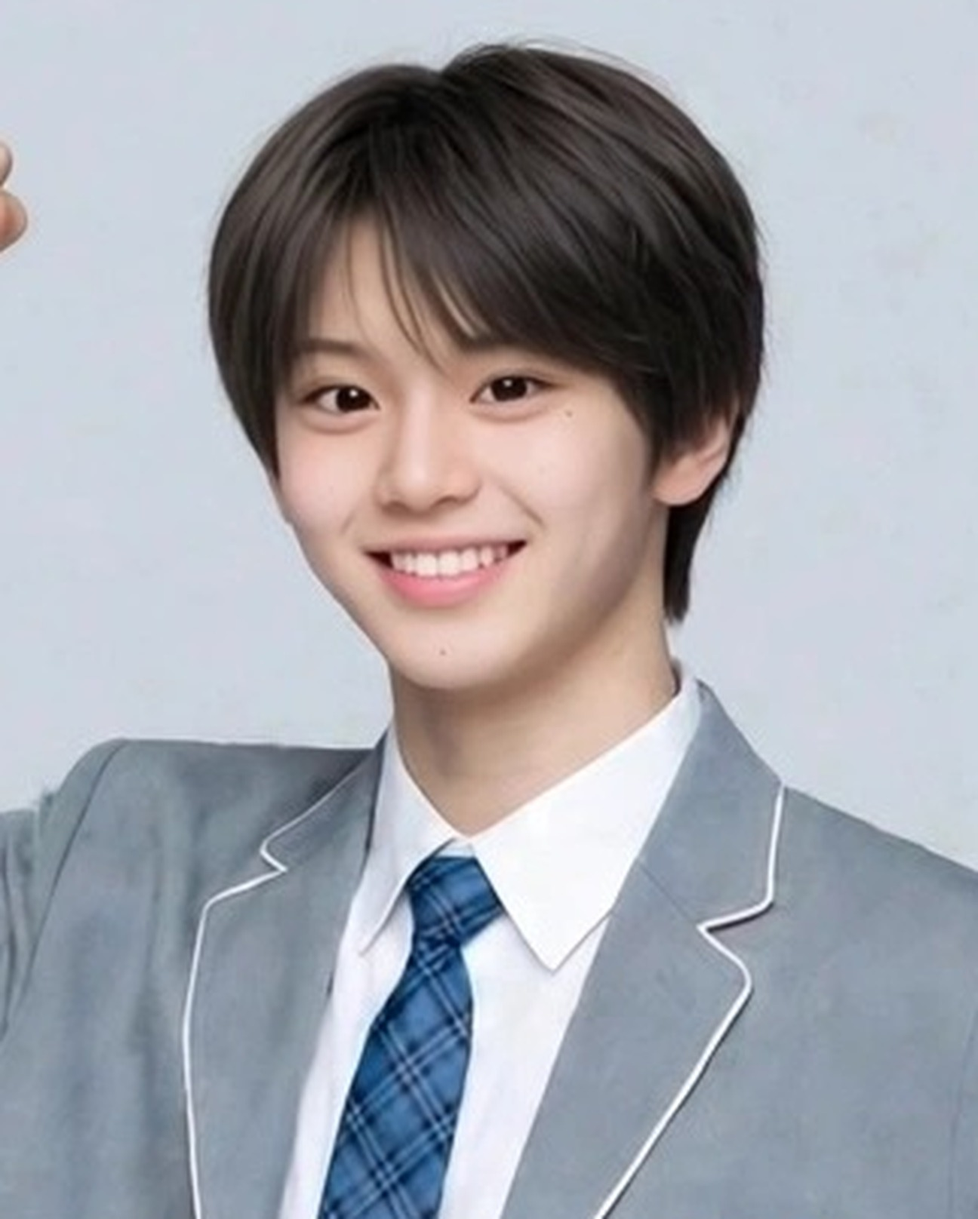
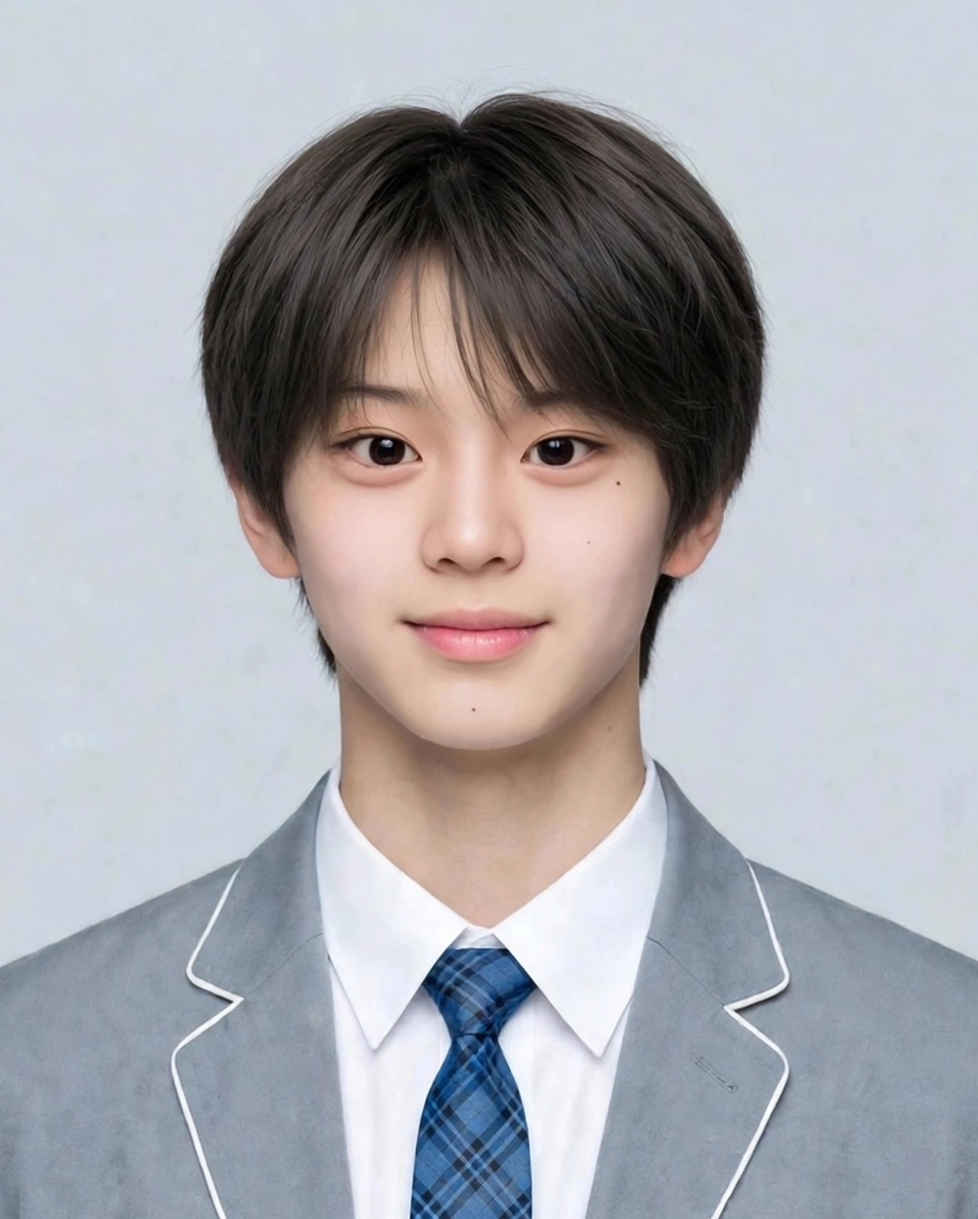
v164: 2019プロフィールを素立ちバストショットに戻す

diff --git a/index.html b/index.html
@@ -806,7 +806,7 @@ body{font-family:-apple-system,"Hiragino Kaku Gothic ProN","Noto Sans JP",sans-s
 <script>
 "use strict";
 const $=s=>document.querySelector(s);
-const VER="v163";
+const VER="v164";
 /* ============ state ============ */
 const DEF={idx:0,started:false,consented:false,soundOn:true,
  g:{iwakan:0,bare:0,todoita:0,uta:8,dance:4,ishi:50},
@@ -2560,7 +2560,7 @@ function renderSettings(tab){setTab=tab;document.querySelectorAll("#set-tabs but
  <div class="srow"><span>到達した結末</span><span class="sv">${S.trueEnd?"TRUE END ― 現在":S.normalEnd?"END ― 通常現在":S.loopBad?"BAD END ― ループ継続":S.bareEnd?"END ― 秘密バレIF":S.ridatsuEnd?"END ― 離脱した現在":"（まだ到達していません）"}</span></div>
  <div class="srow"><span>サウンド</span><span class="sv"><button id="snd-btn" style="background:${S.soundOn!==false?"#17172a":"#c6c6d4"};color:#fff;border:none;border-radius:999px;padding:6px 18px;font-size:12.5px;font-weight:700;cursor:pointer">${S.soundOn!==false?"ON":"OFF"}</button></span></div>
  <div class="srow"><span>フィクション</span><span class="sv">実在の記録をもとにした創作です</span></div>
- <div class="srow"><span>アップデート</span><span class="sv">v16 サウンドと画面遷移／v17 差分再演REPLAYとDiff時代別表示／v18 現在の小さな変化／v19 トークのスレッドとフリーチャット／v20・v23・v32 場面カットの追加／v21 日常回（食堂の夜・売店の夜）／v22 番組アプリの情報デザイン／v24 ホーム背景の時代連動と進行％／v25 タイトルのスライドショー／v26 彼の画面のカウンタ／v27 ロック画面の通知スタック／v28 写真の全画面ビューア／v30 章ごとの記録カード／v31 フィナーレ直前の彼の視点／v33 フリーチャットの時代別応答／v34 投票レシート／v35 ミッション進捗バー／v36 ゲージの危険域表示／v37 選んだ記録の判別表示／v38 台帳の時代別表示／v39 Keepsakeの時代バッジ／v41 章名つきロック画面／v42 トークの新着バッジ／v43 名簿の詳細パネル／v44 写真のスワイプ送り／v45 BGMの時代連動／v46 順位・差分の専用SE／v47 長押し早送り／v48 章セレクト／v50 REPLAY再演の追加／v52 日常回（コンビニの夜）／v53 タイトル通知のセーブ連動／v54 アプリアイコンのバッジ／v55 主人公の正式名「三浦渚央」と2019プロフィールの新フェイス差し替え／v56〜v59 プロフィール・場面カットの新フェイス再生成／v60 カード画角の統一（頭部55〜60%）と三浦渚央の順位表示／v61 名簿メモへの順位追記と凡例／v62 周B順位発表の彼の視点／v63 ストーリーバナーのサムネ時代連動／v64 タイトルに正式名／v65 ロック画面に順位通知／v66 情報タブに順位の記録／v67 順位行の文字色修正／v68 現在の小さな変化（順位の残響）／v69 写真メモに順位結果／v70 節目 ― 全アプリ走査／v71 フリーチャットの話題追加／v72 トークのチップ追加／v73・v74 順位タブの空状態整理／v75 順位変動のDiff記録／v76 節目 ― 全アプリ走査／v77 2021周A・初回ステージ後に彼の画面を追加／v78 2023周A・ファンカム章に彼の視点（インライン）を追加／v79 2019周A・順位発表式に彼の視点（インライン）を追加／v80 2023周A・VERY NICE本番前に彼の視点（インライン）を追加／v81 2023周A・寮の夜に彼の視点（インライン）を追加／v82 2019周A・届くはずのなかった手紙に彼の視点（インライン）を追加／v83 フリーチャットの話題拡充（2019専用プール＋新キーワード6種＋チップ追加）／v84 周Aの彼の記憶の線引きで全監査（2021・2023到着場面と彼の画面3件を連続した同僚の前提に書き換え）／v85 2019周A・練習室の夜に彼の視点（インライン）を追加／v86 2021周A・寮の一夜に彼の視点（インライン）を追加／v87 2023周A・コンビニの夜に彼の視点（インライン）を追加／v88 台帳・Keepsake・Diffの時代分類を修正（NXD期グループ新設、誤分類6件を是正）／v89 場面カット追加（2023順位発表の夜・face2基準で新規生成）／v90 場面カット追加（2021ファイナルの夜・face2基準で新規生成）／v91 節目 ― 全アプリ走査／v92 日常回「自販機の夜」（2023・周B）を追加／v93 2019周A・レベル分け評価に彼の視点（インライン）を追加／v94 写真アプリに時代別グルーピング（見出し＋枚数）を追加／v95 場面カット追加（NXD期・夜の練習室、face2基準で新規生成）／v96 フリーチャットの時代別プールを拡充（各時代＋2件）／v97 2019周B・発覚に彼の視点（インライン）を追加／v98 2021周B・再会に彼の視点（インライン）を追加／v99 2023周B・発覚に彼の視点（インライン）を追加／v100 節目 ― 全編通しプレイ検証／v101 効果音の配線追加（台帳・Keepsake・彼の視点）／v102 トークに彼のメッセージを3件追加／v103 タイトルのスライドショー拡充（8枚）とホーム背景のNXD期差し替え／v104 2023周B・再会に彼の視点（インライン）を追加／v105 2021周B・売店の夜に彼の視点（インライン）を追加／v106 NXD期・周B「移籍の決断」に彼の視点（インライン）を追加／v107 2023周B・共同作戦に彼の視点（インライン）を追加／v108 2019周B・共同作戦（ツカメ対策）に彼の視点（インライン）を追加／v109 2021周B・共同作戦に彼の視点（インライン）を追加／v110 NXD期・周B「延期の季節 ― 二度目」に彼の視点（インライン）を追加／v111 フリーチャット拡充（キーワード応答3種・チップ2件・現在編プール拡充）／v112 節目 ― 全アプリ走査／v113 2023周B・自販機の夜に彼の視点（インライン）を追加／v114 2019周A・食堂の夜に彼の視点（インライン）を追加／v115 2021周B・順位発表の締めに彼の視点（インライン）を追加／v116 設計ドキュメントの実装状況を更新／v117 場面カット追加（2019食堂の夜・face2基準で新規生成）／v118 場面カット追加（2021売店の夜・face2基準で新規生成）／v119 場面カット追加（2023コンビニの夜・face2基準で新規生成）／v120 背景の差し替え（現在編の冒頭とソロデビューの場面）／v121 節目 ― 全編通しプレイ検証（v101〜v120の追加後）／v122 画像出典メモ（IMAGE_SOURCES.md）に新規カット6点とface2基準を追記／v123 READMEの状態表記を現行（本編完結・公開中）に更新／v124 視覚QAで発見した順位タブの防御的修正（順位値の欠損時に最低ラインへフォールバック）／v125 節目 ― 全画面の視覚QA（撮影確認）／v126 節目 ― 別エンディング到達検証（秘密バレIF・離脱した現在）／v127 節目 ― 全5エンディング到達検証の完了（通常現在・ループ継続BADを追加確認）／v128 設計ドキュメントの実装状況に最終検証結果を追記／v129 READMEの現行版表記を更新／v130 生成メタファイルを .gitignore に追加して作業ツリーを整理／v131 「届くはずのなかった手紙」に背景を設定（食堂カットの引き継ぎを解消）／v132 フリーチャットの応答拡充（キーワード応答8種・時代別プール各+2件・チップ2件を追加）／v133 仕上げのUI調整（ホームのアプリアイコンのラベルの可読性を向上、ストーリー画面のゲージチップを均等な3+3配置に整形）／v134 フリーチャットに語学の話題を追加（中国語・韓国語・英語へのキーワード応答）／v135 節目 ― 朝まで改修の最終版（全アプリ走査・ドキュメント同期）／v136 トークを実物化（1相手=1スレッドに集約・未読バッジ・プレビュー・実物時刻・日付チップ・自分の送信への既読表示。仕組みは『現役アイドル、Tinderやってた件』のLINEと『キープ管理中！』の未読管理から移植）／v137 2021・2023の渚央プロフィールを制服版に統一（創造営の紺制服／ボイプラの淡グレー制服。名簿・順位・パネル・背景・写真の参照を全て profile-uniform 系へ）／v138 ロック画面とホームの実物化（主通知の送信者を実アプリ名にし未読トークがあれば最新メッセージを表示、日付を月日＋曜日の実物形式に、ホームと写真の操作説明文を撤去）／v139 トークをTinder版（v462）LINEと実測比較して一致（バブルの角・色・文字サイズ、入力欄、送信ボタン、日付チップ、一覧の行構成と検索ボックス、スレッドヘッダーのアバター）／v140 トークにLINEアプリのシェルを移植（下部タブバー＋タブ画面を新設。タブの数・並び・切替挙動はTinder版LINEと同一で、ホームタブは三浦渚央のプロフィール＋届いた応援カード＋友だちリストのパネル、ニュースは番組アプリ、その他は設定・記録へ接続）／v141 ロック画面の進化（時計を88px・太字に、通知カードをblur20px＋saturateの実物仕様にして幅を統一、スタック通知のアイコンをアプリ別SVGに分けて出現をスタッガード化。ステータスバーと電池％を追加し、壁紙を時代連動＋緩やかなズームに。下部のライトは白フラッシュが光る実働ボタンに、カメラは写真アプリへ直行。通知はタップで該当アプリ・記録へ遷移）／v142 ホーム画面の進化（Tinder版ホームのページ構成を移植：飾りだったドットを実働の2ページ化にし、横スワイプとドットタップで切替。2ページ目に物語暦のカレンダーウィジェットと時代のカットが切り替わる写真ウィジェットを新設し、記録サマリと次のミッションを移設。ドットの横に検索ピルを追加し、アプリ・記録を検索して直接開けるシートを実装。下部にガラスのドック（トーク／写真／番組アプリ／設定・記録、バッジ連動）を追加。ステータスバーに電池％、壁紙に緩やかなズーム）／v143 ロック画面の通知スタックの隙間を修正（ベースCSSの上マージン34pxがスタック内の通知にも効いて間隔が42pxに広がっていたのを、実物どおり8pxに統一。あわせて通知領域を時計の下〜下部ボタンの上のスクロール領域にして、通知が多くてもライト／カメラのボタンやヒント文字に重ならないようにした）／v144 写真アプリの進化（『現役アイドル、Tinderやってた件』の写真アプリから移植：2列カード型だったグリッドを3列・隙間2px・正方形の実物仕様にし、時代見出し＋枚数のヘッダーと上部のピル型タブ（すべて／時代別で絞り込み）を新設。ビューアはお気に入り（セーブに保持、グリッドにもハート表示）とスライドショーを追加し、送りを循環式から端で止まるクランプ式に変更、キャプション＋差分メモ＋時代＋通し番号のメタ表示とキー操作に対応。複数選択モード（最大4枚）からコラージュを作成でき、ロック画面の壁紙にも設定できる（時代連動に戻す導線つき）。中身の時代別カットと枚数は従来どおり）／v145 アプリアイコンをTinder版の様式に統一（アイコンを全面SVG化し、背景レイヤーまで1枚に収める方式へ。トーク＝LINE・写真・設定・記録はTinder版と同型のアイコンに、番組アプリは金の縦グラデーション＋王冠のグリフで同水準に。アイコンの角丸と影もTinder版の実測値に一致。あわせてラベル用ピルのCSSがドックのアイコンにも漏れて円形になっていた不具合を修正し、ドックでもグリッドと同じ角丸アイコンが並ぶようにした）／v147 渚央の顔を最終基準（本人の写真由来の顔＋クールな髪型）へ差し替え開始。2023編のプロフィール（基準画像そのものへ差し替え、カード用クロップも新基準で作成）と場面カット全8点を基準顔で再生成／v148 2021編を新基準へ差し替え（プロフィールは19歳相当＋創造営制服＋屋外背景で新規生成、カード用クロップも作成。場面カット5点＝daily／practice／ranking-close／study／shop-nightを19歳相当の基準顔で再生成。stageは次版で差し替え予定）／v149 2019編を新基準へ全面差し替え（プロフィールは17歳相当で再生成し直し、カード用クロップも新規作成。場面カット7点＝stage／stage2／dorm／practice／ranking-close／selfie／cafeteriaを17歳相当の基準顔で再生成）。リンクプレビュー用のog:image（新stageから作成）も新設／v150 旧素材（候補ファイル群・旧プロフィール）を保管庫へ退避し、顔素材を新基準のラインに統一（表示内容の変更なし）／v151 2021のステージカットを新顔基準（19歳版）で差し替え、顔の全面差し替えが完了／v153 2021プロフィールに創造営の学員証を追加（メンバーが付けている装着物に合わせた。2019は名札が既存仕様どおり、2023は装着物なしが実物どおり）。<br>v152 全時代のプロフィールをポーズ付きに作り直し（2019＝ガッツポーズの全身ショット、2021＝頬ハートの膝上ショット、2023＝腕組みのウエスト上ショット。顔は新基準のラインを維持し、寄りクロップも新しい全身から作り直し）<br>v154 全身カットの脚の比率を修正（2019・2021の練習室カットを脚長・細身のモデル体型プロポーションで再生成。構図・ポーズ・顔は維持）<br>v155 鼻の大きさを基準顔に修正（2019ステージカットと順位発表カットの鼻を、基準の小さく細い鼻筋＋小さく上向きの鼻先に寄せて再生成。構図・衣装・表情は維持）<br>v156 「彼の画面」を現代のモバイルADV風に作り替え（時代の場面カットをぼかしたシネマティック背景＋暗グラデーション、大翔のアバター＋名前チップのヘッダー、進行は紫ピルをやめてグラデーションのプログレスバー＋控えめな件数表示に。心の声は字幕風の中央テキスト＋ヘアライン区切り、セリフはガラス質の吹き出しカードにし、金枠と紫イタリックを廃止。終わりは白ピルの「戻る」ボタン。本文・分岐・ゲージの仕様は不変。物語内の彼の視点カードも同じ質感に統一）<br>v157 番組アプリのリアル化（お知らせタブを新設し、時代と進行に連動する事務局・投票・コンテンツ通知を掲載。結果のお知らせからは順位タブへ遷移。名簿の詳細をプロフィールページ化：ヒーロー写真＋名前オーバーレイ＋区分・番組の情報行＋順位の記録テーブル（彼の初回12位など史実と周ごとの結果を、発表済みの分だけ表示）＋渚央のスキルバー。順位タブの大翔・渚央の周B行に前回比の変動チップ▲を追加）<br>v158 設定・記録のリアル化（情報タブをiOS設定風に：作品情報／いまの記録／サウンド／履歴のグループカード化、サウンドはピルボタンからiOSトグルスイッチに、長いアップデート履歴は開閉式に収納。表示テキストは全て従来どおり。ゲージ・台帳・Keepsake・Diff・章の各タブはカード型の行＋チップ見出しで履歴・メモ系UIの質感に統一。ゲージ説明や順位計算などの仕様・文言は不変）<br>v162 周Bの記憶ルールを新仕様に統一（彼の記憶は周B開始時＝2019年の再会で大周回Aの全部が一度に戻る。旧仕様「時代ごとに、その時代ぶんが順に戻る」は廃止。2019編の発覚を全部戻った前提の大きな一場面に書き直し、2021・2023編の再会は「その時代の記憶が戻る・既視感から確信」ではなく確認と共同作戦の続きに書き換え。彼の視点・幕間・ロック画面の通知文も同じ前提に統一。ゲージ・分岐・順位計算などの数値仕様は不変）<br>v163 2019の2点（ステージ／順位発表の寄り）の鼻を再修正（v155で小さく寄りすぎていたものを、基準顔の比率どおりの自然な大きさに戻して再生成。顔・構図・衣装は維持。og画像も新しいステージカットから作り直し）</span></div>
+ <div class="srow"><span>アップデート</span><span class="sv">v16 サウンドと画面遷移／v17 差分再演REPLAYとDiff時代別表示／v18 現在の小さな変化／v19 トークのスレッドとフリーチャット／v20・v23・v32 場面カットの追加／v21 日常回（食堂の夜・売店の夜）／v22 番組アプリの情報デザイン／v24 ホーム背景の時代連動と進行％／v25 タイトルのスライドショー／v26 彼の画面のカウンタ／v27 ロック画面の通知スタック／v28 写真の全画面ビューア／v30 章ごとの記録カード／v31 フィナーレ直前の彼の視点／v33 フリーチャットの時代別応答／v34 投票レシート／v35 ミッション進捗バー／v36 ゲージの危険域表示／v37 選んだ記録の判別表示／v38 台帳の時代別表示／v39 Keepsakeの時代バッジ／v41 章名つきロック画面／v42 トークの新着バッジ／v43 名簿の詳細パネル／v44 写真のスワイプ送り／v45 BGMの時代連動／v46 順位・差分の専用SE／v47 長押し早送り／v48 章セレクト／v50 REPLAY再演の追加／v52 日常回（コンビニの夜）／v53 タイトル通知のセーブ連動／v54 アプリアイコンのバッジ／v55 主人公の正式名「三浦渚央」と2019プロフィールの新フェイス差し替え／v56〜v59 プロフィール・場面カットの新フェイス再生成／v60 カード画角の統一（頭部55〜60%）と三浦渚央の順位表示／v61 名簿メモへの順位追記と凡例／v62 周B順位発表の彼の視点／v63 ストーリーバナーのサムネ時代連動／v64 タイトルに正式名／v65 ロック画面に順位通知／v66 情報タブに順位の記録／v67 順位行の文字色修正／v68 現在の小さな変化（順位の残響）／v69 写真メモに順位結果／v70 節目 ― 全アプリ走査／v71 フリーチャットの話題追加／v72 トークのチップ追加／v73・v74 順位タブの空状態整理／v75 順位変動のDiff記録／v76 節目 ― 全アプリ走査／v77 2021周A・初回ステージ後に彼の画面を追加／v78 2023周A・ファンカム章に彼の視点（インライン）を追加／v79 2019周A・順位発表式に彼の視点（インライン）を追加／v80 2023周A・VERY NICE本番前に彼の視点（インライン）を追加／v81 2023周A・寮の夜に彼の視点（インライン）を追加／v82 2019周A・届くはずのなかった手紙に彼の視点（インライン）を追加／v83 フリーチャットの話題拡充（2019専用プール＋新キーワード6種＋チップ追加）／v84 周Aの彼の記憶の線引きで全監査（2021・2023到着場面と彼の画面3件を連続した同僚の前提に書き換え）／v85 2019周A・練習室の夜に彼の視点（インライン）を追加／v86 2021周A・寮の一夜に彼の視点（インライン）を追加／v87 2023周A・コンビニの夜に彼の視点（インライン）を追加／v88 台帳・Keepsake・Diffの時代分類を修正（NXD期グループ新設、誤分類6件を是正）／v89 場面カット追加（2023順位発表の夜・face2基準で新規生成）／v90 場面カット追加（2021ファイナルの夜・face2基準で新規生成）／v91 節目 ― 全アプリ走査／v92 日常回「自販機の夜」（2023・周B）を追加／v93 2019周A・レベル分け評価に彼の視点（インライン）を追加／v94 写真アプリに時代別グルーピング（見出し＋枚数）を追加／v95 場面カット追加（NXD期・夜の練習室、face2基準で新規生成）／v96 フリーチャットの時代別プールを拡充（各時代＋2件）／v97 2019周B・発覚に彼の視点（インライン）を追加／v98 2021周B・再会に彼の視点（インライン）を追加／v99 2023周B・発覚に彼の視点（インライン）を追加／v100 節目 ― 全編通しプレイ検証／v101 効果音の配線追加（台帳・Keepsake・彼の視点）／v102 トークに彼のメッセージを3件追加／v103 タイトルのスライドショー拡充（8枚）とホーム背景のNXD期差し替え／v104 2023周B・再会に彼の視点（インライン）を追加／v105 2021周B・売店の夜に彼の視点（インライン）を追加／v106 NXD期・周B「移籍の決断」に彼の視点（インライン）を追加／v107 2023周B・共同作戦に彼の視点（インライン）を追加／v108 2019周B・共同作戦（ツカメ対策）に彼の視点（インライン）を追加／v109 2021周B・共同作戦に彼の視点（インライン）を追加／v110 NXD期・周B「延期の季節 ― 二度目」に彼の視点（インライン）を追加／v111 フリーチャット拡充（キーワード応答3種・チップ2件・現在編プール拡充）／v112 節目 ― 全アプリ走査／v113 2023周B・自販機の夜に彼の視点（インライン）を追加／v114 2019周A・食堂の夜に彼の視点（インライン）を追加／v115 2021周B・順位発表の締めに彼の視点（インライン）を追加／v116 設計ドキュメントの実装状況を更新／v117 場面カット追加（2019食堂の夜・face2基準で新規生成）／v118 場面カット追加（2021売店の夜・face2基準で新規生成）／v119 場面カット追加（2023コンビニの夜・face2基準で新規生成）／v120 背景の差し替え（現在編の冒頭とソロデビューの場面）／v121 節目 ― 全編通しプレイ検証（v101〜v120の追加後）／v122 画像出典メモ（IMAGE_SOURCES.md）に新規カット6点とface2基準を追記／v123 READMEの状態表記を現行（本編完結・公開中）に更新／v124 視覚QAで発見した順位タブの防御的修正（順位値の欠損時に最低ラインへフォールバック）／v125 節目 ― 全画面の視覚QA（撮影確認）／v126 節目 ― 別エンディング到達検証（秘密バレIF・離脱した現在）／v127 節目 ― 全5エンディング到達検証の完了（通常現在・ループ継続BADを追加確認）／v128 設計ドキュメントの実装状況に最終検証結果を追記／v129 READMEの現行版表記を更新／v130 生成メタファイルを .gitignore に追加して作業ツリーを整理／v131 「届くはずのなかった手紙」に背景を設定（食堂カットの引き継ぎを解消）／v132 フリーチャットの応答拡充（キーワード応答8種・時代別プール各+2件・チップ2件を追加）／v133 仕上げのUI調整（ホームのアプリアイコンのラベルの可読性を向上、ストーリー画面のゲージチップを均等な3+3配置に整形）／v134 フリーチャットに語学の話題を追加（中国語・韓国語・英語へのキーワード応答）／v135 節目 ― 朝まで改修の最終版（全アプリ走査・ドキュメント同期）／v136 トークを実物化（1相手=1スレッドに集約・未読バッジ・プレビュー・実物時刻・日付チップ・自分の送信への既読表示。仕組みは『現役アイドル、Tinderやってた件』のLINEと『キープ管理中！』の未読管理から移植）／v137 2021・2023の渚央プロフィールを制服版に統一（創造営の紺制服／ボイプラの淡グレー制服。名簿・順位・パネル・背景・写真の参照を全て profile-uniform 系へ）／v138 ロック画面とホームの実物化（主通知の送信者を実アプリ名にし未読トークがあれば最新メッセージを表示、日付を月日＋曜日の実物形式に、ホームと写真の操作説明文を撤去）／v139 トークをTinder版（v462）LINEと実測比較して一致（バブルの角・色・文字サイズ、入力欄、送信ボタン、日付チップ、一覧の行構成と検索ボックス、スレッドヘッダーのアバター）／v140 トークにLINEアプリのシェルを移植（下部タブバー＋タブ画面を新設。タブの数・並び・切替挙動はTinder版LINEと同一で、ホームタブは三浦渚央のプロフィール＋届いた応援カード＋友だちリストのパネル、ニュースは番組アプリ、その他は設定・記録へ接続）／v141 ロック画面の進化（時計を88px・太字に、通知カードをblur20px＋saturateの実物仕様にして幅を統一、スタック通知のアイコンをアプリ別SVGに分けて出現をスタッガード化。ステータスバーと電池％を追加し、壁紙を時代連動＋緩やかなズームに。下部のライトは白フラッシュが光る実働ボタンに、カメラは写真アプリへ直行。通知はタップで該当アプリ・記録へ遷移）／v142 ホーム画面の進化（Tinder版ホームのページ構成を移植：飾りだったドットを実働の2ページ化にし、横スワイプとドットタップで切替。2ページ目に物語暦のカレンダーウィジェットと時代のカットが切り替わる写真ウィジェットを新設し、記録サマリと次のミッションを移設。ドットの横に検索ピルを追加し、アプリ・記録を検索して直接開けるシートを実装。下部にガラスのドック（トーク／写真／番組アプリ／設定・記録、バッジ連動）を追加。ステータスバーに電池％、壁紙に緩やかなズーム）／v143 ロック画面の通知スタックの隙間を修正（ベースCSSの上マージン34pxがスタック内の通知にも効いて間隔が42pxに広がっていたのを、実物どおり8pxに統一。あわせて通知領域を時計の下〜下部ボタンの上のスクロール領域にして、通知が多くてもライト／カメラのボタンやヒント文字に重ならないようにした）／v144 写真アプリの進化（『現役アイドル、Tinderやってた件』の写真アプリから移植：2列カード型だったグリッドを3列・隙間2px・正方形の実物仕様にし、時代見出し＋枚数のヘッダーと上部のピル型タブ（すべて／時代別で絞り込み）を新設。ビューアはお気に入り（セーブに保持、グリッドにもハート表示）とスライドショーを追加し、送りを循環式から端で止まるクランプ式に変更、キャプション＋差分メモ＋時代＋通し番号のメタ表示とキー操作に対応。複数選択モード（最大4枚）からコラージュを作成でき、ロック画面の壁紙にも設定できる（時代連動に戻す導線つき）。中身の時代別カットと枚数は従来どおり）／v145 アプリアイコンをTinder版の様式に統一（アイコンを全面SVG化し、背景レイヤーまで1枚に収める方式へ。トーク＝LINE・写真・設定・記録はTinder版と同型のアイコンに、番組アプリは金の縦グラデーション＋王冠のグリフで同水準に。アイコンの角丸と影もTinder版の実測値に一致。あわせてラベル用ピルのCSSがドックのアイコンにも漏れて円形になっていた不具合を修正し、ドックでもグリッドと同じ角丸アイコンが並ぶようにした）／v147 渚央の顔を最終基準（本人の写真由来の顔＋クールな髪型）へ差し替え開始。2023編のプロフィール（基準画像そのものへ差し替え、カード用クロップも新基準で作成）と場面カット全8点を基準顔で再生成／v148 2021編を新基準へ差し替え（プロフィールは19歳相当＋創造営制服＋屋外背景で新規生成、カード用クロップも作成。場面カット5点＝daily／practice／ranking-close／study／shop-nightを19歳相当の基準顔で再生成。stageは次版で差し替え予定）／v149 2019編を新基準へ全面差し替え（プロフィールは17歳相当で再生成し直し、カード用クロップも新規作成。場面カット7点＝stage／stage2／dorm／practice／ranking-close／selfie／cafeteriaを17歳相当の基準顔で再生成）。リンクプレビュー用のog:image（新stageから作成）も新設／v150 旧素材（候補ファイル群・旧プロフィール）を保管庫へ退避し、顔素材を新基準のラインに統一（表示内容の変更なし）／v151 2021のステージカットを新顔基準（19歳版）で差し替え、顔の全面差し替えが完了／v153 2021プロフィールに創造営の学員証を追加（メンバーが付けている装着物に合わせた。2019は名札が既存仕様どおり、2023は装着物なしが実物どおり）。<br>v152 全時代のプロフィールをポーズ付きに作り直し（2019＝ガッツポーズの全身ショット、2021＝頬ハートの膝上ショット、2023＝腕組みのウエスト上ショット。顔は新基準のラインを維持し、寄りクロップも新しい全身から作り直し）<br>v154 全身カットの脚の比率を修正（2019・2021の練習室カットを脚長・細身のモデル体型プロポーションで再生成。構図・ポーズ・顔は維持）<br>v155 鼻の大きさを基準顔に修正（2019ステージカットと順位発表カットの鼻を、基準の小さく細い鼻筋＋小さく上向きの鼻先に寄せて再生成。構図・衣装・表情は維持）<br>v156 「彼の画面」を現代のモバイルADV風に作り替え（時代の場面カットをぼかしたシネマティック背景＋暗グラデーション、大翔のアバター＋名前チップのヘッダー、進行は紫ピルをやめてグラデーションのプログレスバー＋控えめな件数表示に。心の声は字幕風の中央テキスト＋ヘアライン区切り、セリフはガラス質の吹き出しカードにし、金枠と紫イタリックを廃止。終わりは白ピルの「戻る」ボタン。本文・分岐・ゲージの仕様は不変。物語内の彼の視点カードも同じ質感に統一）<br>v157 番組アプリのリアル化（お知らせタブを新設し、時代と進行に連動する事務局・投票・コンテンツ通知を掲載。結果のお知らせからは順位タブへ遷移。名簿の詳細をプロフィールページ化：ヒーロー写真＋名前オーバーレイ＋区分・番組の情報行＋順位の記録テーブル（彼の初回12位など史実と周ごとの結果を、発表済みの分だけ表示）＋渚央のスキルバー。順位タブの大翔・渚央の周B行に前回比の変動チップ▲を追加）<br>v158 設定・記録のリアル化（情報タブをiOS設定風に：作品情報／いまの記録／サウンド／履歴のグループカード化、サウンドはピルボタンからiOSトグルスイッチに、長いアップデート履歴は開閉式に収納。表示テキストは全て従来どおり。ゲージ・台帳・Keepsake・Diff・章の各タブはカード型の行＋チップ見出しで履歴・メモ系UIの質感に統一。ゲージ説明や順位計算などの仕様・文言は不変）<br>v162 周Bの記憶ルールを新仕様に統一（彼の記憶は周B開始時＝2019年の再会で大周回Aの全部が一度に戻る。旧仕様「時代ごとに、その時代ぶんが順に戻る」は廃止。2019編の発覚を全部戻った前提の大きな一場面に書き直し、2021・2023編の再会は「その時代の記憶が戻る・既視感から確信」ではなく確認と共同作戦の続きに書き換え。彼の視点・幕間・ロック画面の通知文も同じ前提に統一。ゲージ・分岐・順位計算などの数値仕様は不変）<br>v163 2019の2点（ステージ／順位発表の寄り）の鼻を再修正（v155で小さく寄りすぎていたものを、基準顔の比率どおりの自然な大きさに戻して再生成。顔・構図・衣装は維持。og画像も新しいステージカットから作り直し）<br>v164 2019のプロフィールを実物どおりの素立ちバストショットに戻した（PRODUCE 101 JAPANの公式プロフィールはポーズなしの素立ちが実物のため、v152のガッツポーズ全身は2019に限って撤回。グレーブレザー＋青チェックタイ＋名札は維持し、寄りクロップも新しいバストショットから作り直し。他時代のプロフィールは各時代の公式写真に合わせる原則どおり据え置き）</span></div>
  <div class="pad"><p class="small">エンディングは5種（TRUE現在／通常現在／離脱した現在／秘密バレIF／ループ継続BAD）。結末は、彼の岐路での関わり・手がかり（Keepsakeと届いた数）・男装バレ度・最後の選択で分かれます。なお「デビューしてしまう現在」はIF候補として設計にのみ記録され、本編では採用していません（デビューメンバー構成は不変のため）。</p></div>
  <div class="pad"><button class="btn" id="reset-btn" style="background:#ff3b30">データを消して最初から</button></div>`;
  const rb=$("#reset-btn");if(rb)rb.onclick=()=>{if(confirm("セーブデータを消して最初から始めますか？")){localStorage.removeItem("tlSaveV2");location.reload();}};

diff --git a/docs/ASSETS_NAO.md b/docs/ASSETS_NAO.md
@@ -139,3 +139,6 @@
 - v159の顔全面監査で「小さすぎの逸脱なし」とした判定は、本人の実機指摘で誤りと判明し訂正する。旧版の2019 stage／ranking-close（v155で「大きすぎ」を直した版）が「小さすぎ側の下限の実例（グラウンドトゥルース）」
 - v163でこの2点を基準（standard-final.jpg）の鼻の比率どおりの自然な大きさに再生成して差し替え済み。他の寄りカット19点は下限の物差しで再判定し、自然な範囲（小さすぎ該当は指摘の2点のみ）
 - 今後の鼻の監査は「大きすぎ／小さすぎ」の両方向とも、基準との比率の精密比較で行うこと。監査側の目視だけで「逸脱なし」と断定しない
+
+## 2019プロフィールはポーズなし（2026-11-09 v164）
+- PRODUCE 101 JAPAN の公式プロフィールは素立ちのバストショットが実物。本人の指示で、v152の「ポーズをとって」は2019には適用しない。2019 profile-face3b-full は素立ちバストショットに差し替え済み（寄り close2 も同カットから再作成）。他時代は各時代のメンバーの公式写真に合わせる原則どおり
